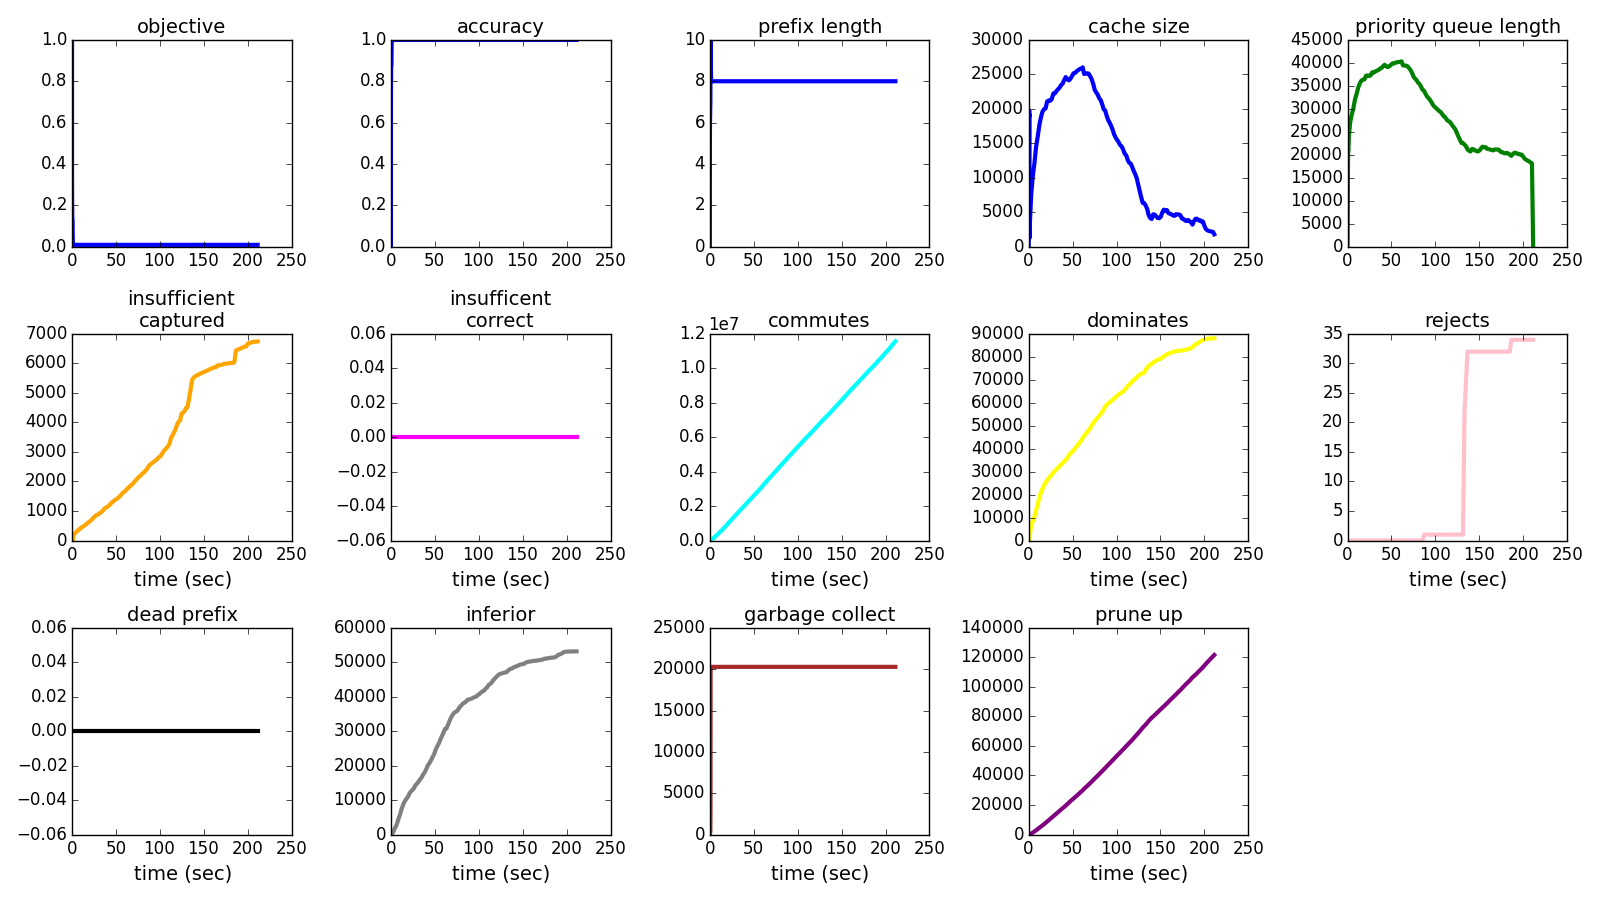
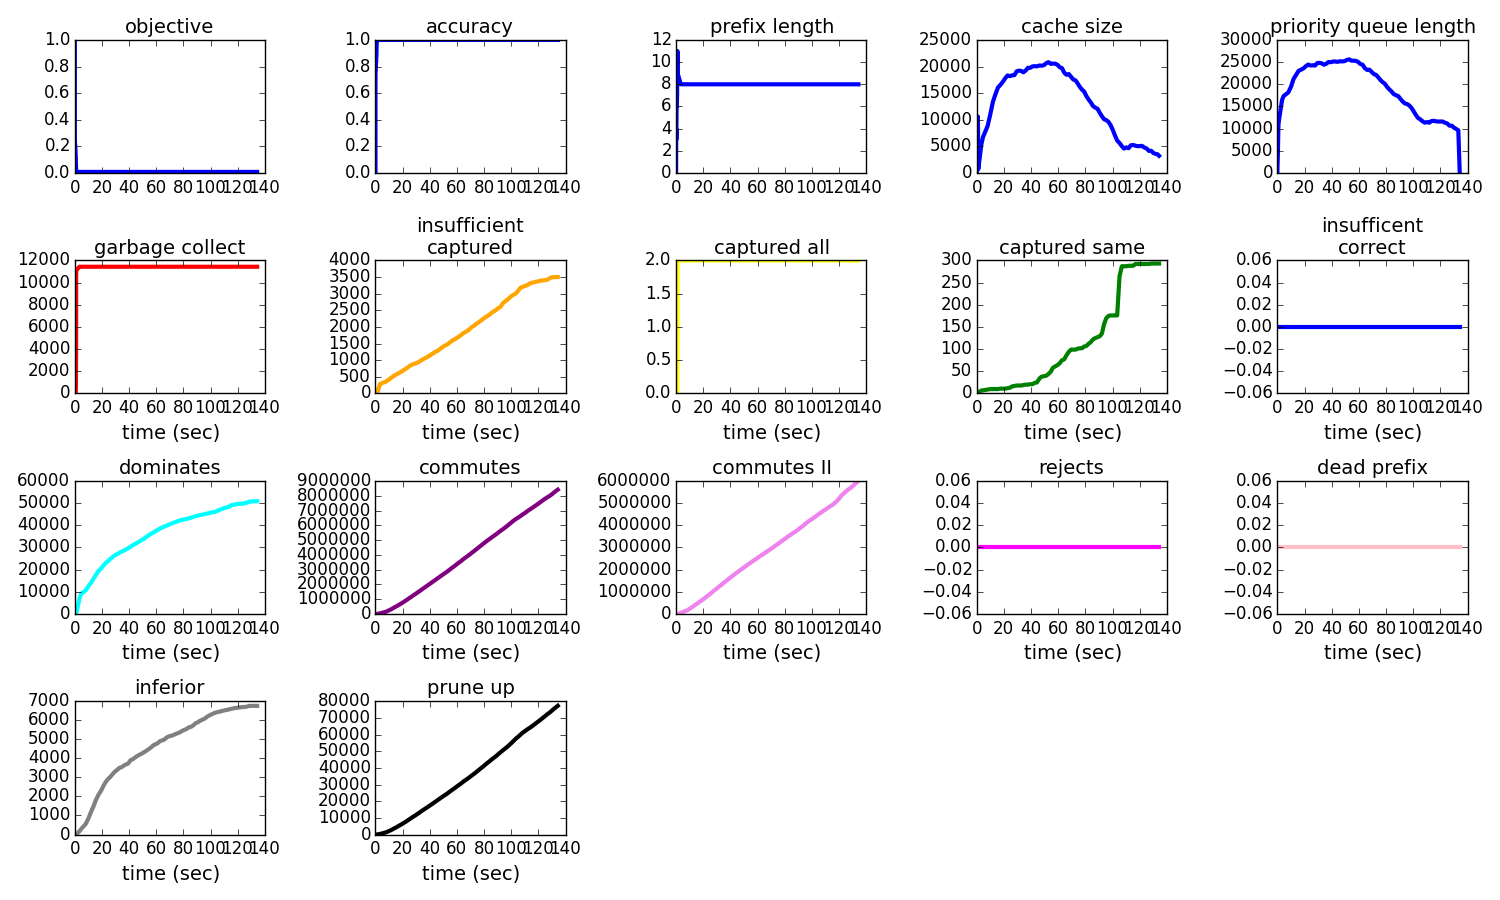
Updated tic-tac-toe results and minor edits, > 30% faster
- Previously > 200 sec, now < 140 sec for c = d = 0.001
- Max cache size previously about 25,000, now about 20,000
- Not obvious why (due to interactions) but (new) commutes II is
significant

diff --git a/code/serial_priority.py b/code/serial_priority.py
@@ -24,9 +24,10 @@ import heapq
 import os
 import time
 
-import numpy as np
 import gmpy2
 from gmpy2 import mpz
+import numpy as np
+import pylab
 import tabular as tb
 
 from branch_bound import given_prefix, initialize, incremental, print_rule_list
@@ -322,6 +323,7 @@ def bbound(din=os.path.join('..', 'data'), dout=os.path.join('..', 'cache'),
         descr = print_rule_list(cc.prefix, cc.prediction, cc.default_rule, rule_names)
 
     figs.viz_log(metadata=metadata, din=dlog, dout=dfigs, delimiter=',', lw=3, fs=14)
+    pylab.draw()
     #"""
     try:
         if (len(priority_queue) > 0):
@@ -331,6 +333,7 @@ def bbound(din=os.path.join('..', 'data'), dout=os.path.join('..', 'cache'),
             x.sort(order=['length', 'first'])
             x.saveSV(fname, delimiter=delimiter)
             figs.make_figure(metadata=metadata, din=dout, dout=dfigs)
+            pylab.draw()
     except:
         pass
     #"""
@@ -364,7 +367,7 @@ def tdata_3():
            dlog=os.path.join('..', 'logs'), dfigs=os.path.join('..', 'figs'),
            froot='tdata_R', warm_start=False, max_accuracy=0., best_prefix=(),
            min_objective=1., c=0.001, min_captured_correct=0.001,
-           max_prefix_length=20, max_cache_size=300000, delimiter='\t',
+           max_prefix_length=20, max_cache_size=30000, delimiter='\t',
            method='curiosity', seed=0, sample=1., quiet=True, clear=True,
            garbage_collect=True)
     return (metadata, metrics, cache, priority_queue, best, rule_list)
@@ -576,7 +579,7 @@ def tdata_driver(dout='../results/', fout='tdata.md'):
         if os.path.exists('../figs/%s-cache.png' % md):
             fh.write('![%s-cache](../figs/%s-cache.png)\n' % (md, md))
     fh.close()
-    return
+    return (metadata, metrics, cache, priority_queue, best, rule_list)
 
 def small_expanded(dout='../results/', foutroot='small_expanded', c=0.01,
                    max_cache_size=2000000):
@@ -588,7 +591,7 @@ def small_expanded(dout='../results/', foutroot='small_expanded', c=0.01,
     d = c
     descr = []
     fh.write('##small datasets (c=%1.3f, max_cache_size=%d)\n\n' % (c, max_cache_size))
-    fh.write('expanded with maximum cardinality = 2 and minimum support = 1%\n\n')
+    fh.write('expanded with maximum cardinality = 2 and minimum support = 10%\n\n')
     fh.write('| dataset | method | time (s) | cache | queue | objective | lower bound | accuracy | upper bound | length |\n')
     fh.write('| --- | --- | --- | --- | --- | --- | --- | --- | --- | --- |\n')
     template = '| %s | %s | %3.3f | %d | %d | %1.3f | %1.3f | %1.3f | %1.3f | %d |\n'

diff --git a/results/tdata.md b/results/tdata.md
@@ -1,13 +1,13 @@
 ##tic-tac-toe dataset (curiosity, c = d = 0.001)
 
-	if {c3=x,c5=x,c7=x} then predict 1
-	else if {c7=x,c8=x,c9=x} then predict 1
-	else if {c1=x,c2=x,c3=x} then predict 1
+	if {c7=x,c8=x,c9=x} then predict 1
+	else if {c4=x,c5=x,c6=x} then predict 1
+	else if {c3=x,c6=x,c9=x} then predict 1
+	else if {c3=x,c5=x,c7=x} then predict 1
 	else if {c2=x,c5=x,c8=x} then predict 1
 	else if {c1=x,c5=x,c9=x} then predict 1
-	else if {c3=x,c6=x,c9=x} then predict 1
 	else if {c1=x,c4=x,c7=x} then predict 1
-	else if {c4=x,c5=x,c6=x} then predict 1
+	else if {c1=x,c2=x,c3=x} then predict 1
 	else predict 0
 
 ![tdata_R-serial_priority-c=0.00100-min_cap=0.001-min_objective=1.000-method=curiosity-max_cache_size=30000-sample=1.00-log](../figs/tdata_R-serial_priority-c=0.00100-min_cap=0.001-min_objective=1.000-method=curiosity-max_cache_size=30000-sample=1.00-log.png)
